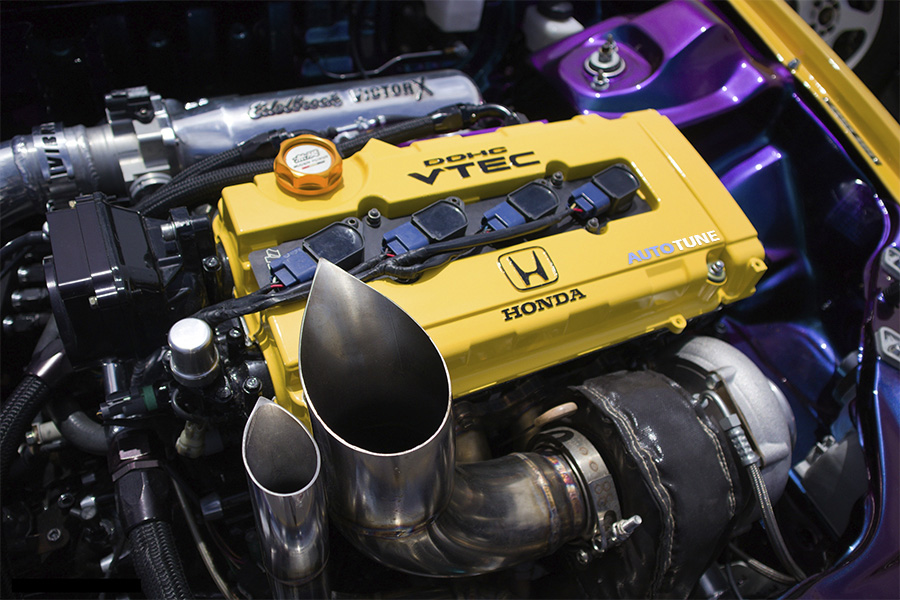
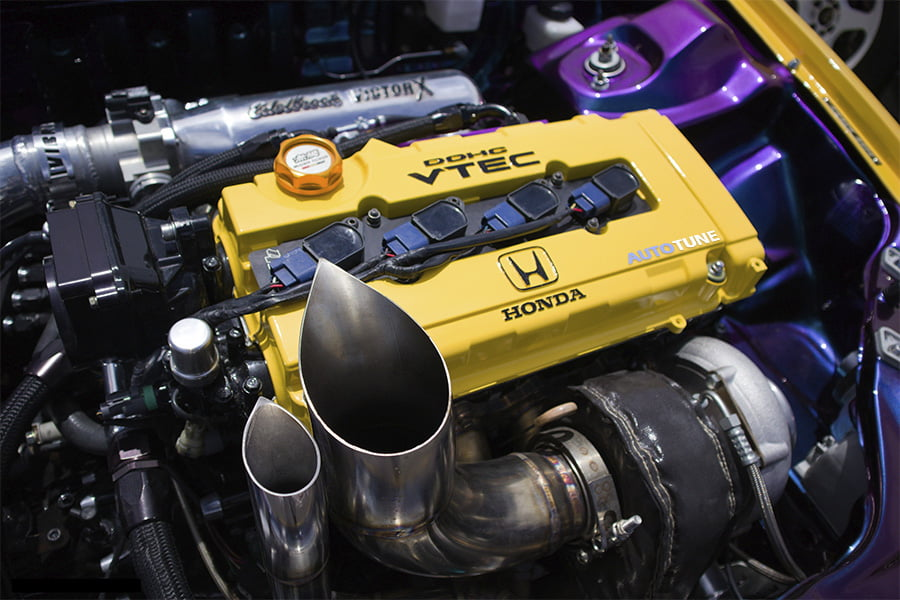
Images optimization

diff --git a/main.css b/main.css
@@ -39,7 +39,7 @@ h3,
 h4,
 p,
 li {
-  font-family: 'Ubuntu', sans-serif;;
+  font-family: 'Ubuntu', sans-serif;
   margin: 0;
 }
 
